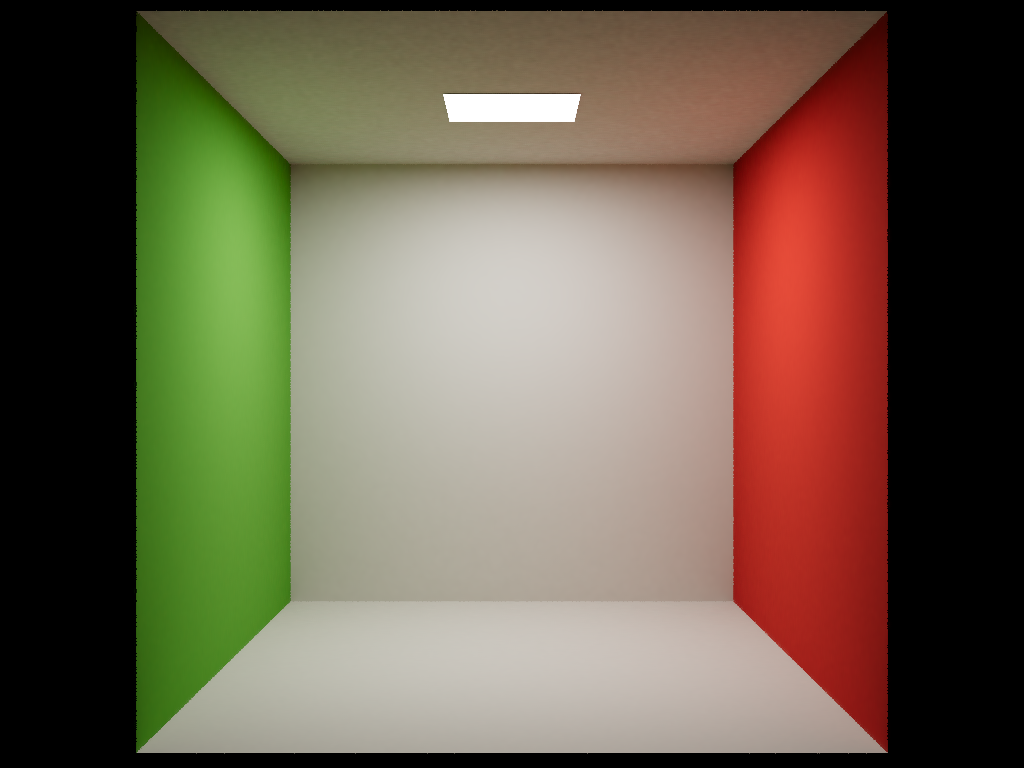
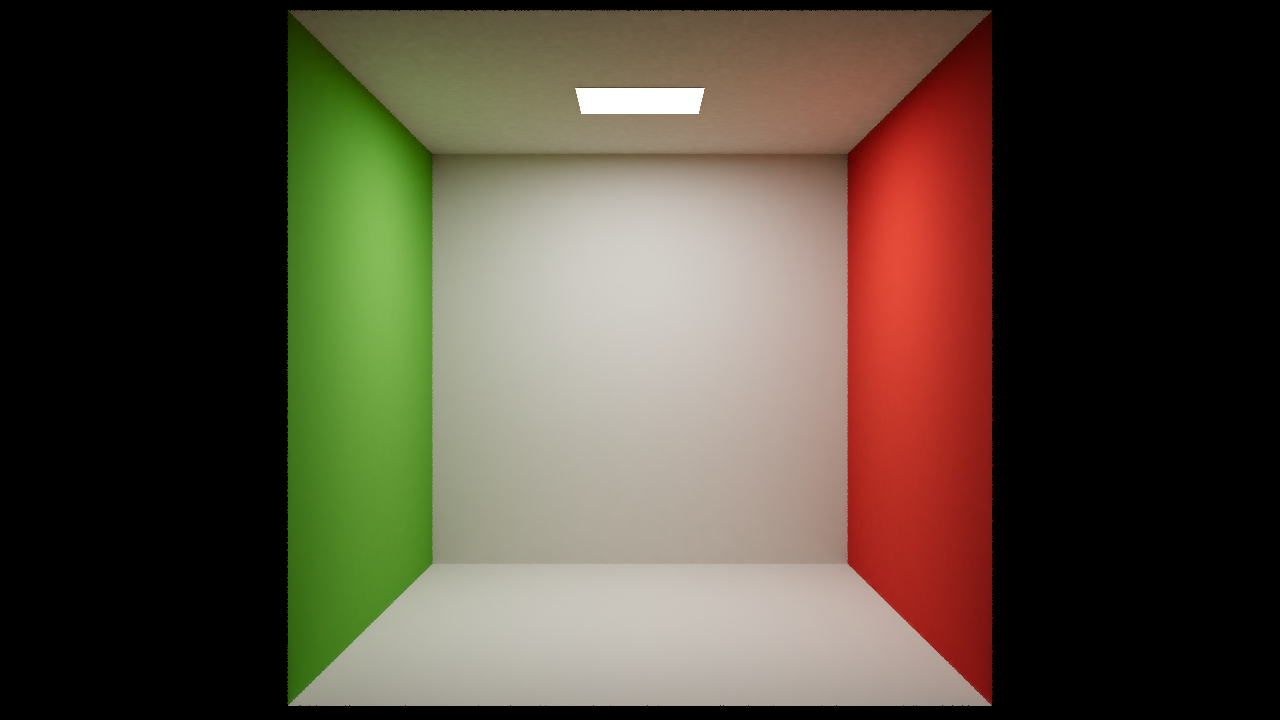
chore: release v0.7.0
64spp screenshot gallery (29 scenes, 1280x720). LICENSE copyright unified (Norbert Nopper). Docs: deleted-scene refs + look_at drift fixed. Pin Aether/Harmonia v0.7.0.

diff --git a/README.md b/README.md
@@ -11,29 +11,48 @@ It implements the [OpenPBR Surface v1.1.1](https://academysoftwarefoundation.git
 
 ## Screenshots
 
-| Cornell Box | Spheres | Suzanne |
-|:-----------:|:-------:|:-------:|
-| ![cornell_classic](screenshots/cornell_classic.png) | ![cornell_spheres](screenshots/cornell_spheres.png) | ![cornell_suzanne](screenshots/cornell_suzanne.png) |
+All 29 test scenes — Hyperion path tracer at **64 spp**, 1280×720 (fireflies from the low
+sample count are expected; 64 spp keeps the full-gallery render tractable).
 
-| Metals | Dielectrics | Coat |
-|:------:|:-----------:|:----:|
+| cornell_classic | cornell_classic_rec709 | cornell_empty |
+|:---:|:---:|:---:|
+| ![cornell_classic](screenshots/cornell_classic.png) | ![cornell_classic_rec709](screenshots/cornell_classic_rec709.png) | ![cornell_empty](screenshots/cornell_empty.png) |
+
+| cornell_spheres | cornell_suzanne | cornell_textured_cube |
+|:---:|:---:|:---:|
+| ![cornell_spheres](screenshots/cornell_spheres.png) | ![cornell_suzanne](screenshots/cornell_suzanne.png) | ![cornell_textured_cube](screenshots/cornell_textured_cube.png) |
+
+| openpbr_metals | openpbr_dielectrics | openpbr_coat |
+|:---:|:---:|:---:|
 | ![openpbr_metals](screenshots/openpbr_metals.png) | ![openpbr_dielectrics](screenshots/openpbr_dielectrics.png) | ![openpbr_coat](screenshots/openpbr_coat.png) |
 
-| Fuzz | Specular | Organics |
-|:----:|:--------:|:--------:|
+| openpbr_fuzz | openpbr_specular | openpbr_organics |
+|:---:|:---:|:---:|
 | ![openpbr_fuzz](screenshots/openpbr_fuzz.png) | ![openpbr_specular](screenshots/openpbr_specular.png) | ![openpbr_organics](screenshots/openpbr_organics.png) |
 
-| Thin-film | Textured Cube | Dragon & Teapot (IBL) |
-|:---------:|:-------------:|:---------------------:|
-| ![openpbr_thinfilm](screenshots/openpbr_thinfilm.png) | ![cornell_textured_cube](screenshots/cornell_textured_cube.png) | ![dragon_teapot](screenshots/dragon_teapot.png) |
+| openpbr_thinfilm | openpbr_advanced | shaderball_base |
+|:---:|:---:|:---:|
+| ![openpbr_thinfilm](screenshots/openpbr_thinfilm.png) | ![openpbr_advanced](screenshots/openpbr_advanced.png) | ![shaderball_base](screenshots/shaderball_base.png) |
 
-| Advanced Transmission | A Beautiful Game (IBL) | Bunny + ShaderBall (IBL) |
-|:----------------------:|:------------------------:|:------------------------:|
-| ![openpbr_advanced](screenshots/openpbr_advanced.png) | ![ABeautifulGame](screenshots/ABeautifulGame.png) | ![bunny_shaderball](screenshots/bunny_shaderball.png) |
+| shaderball_coat | shaderball_fuzz | shaderball_metal |
+|:---:|:---:|:---:|
+| ![shaderball_coat](screenshots/shaderball_coat.png) | ![shaderball_fuzz](screenshots/shaderball_fuzz.png) | ![shaderball_metal](screenshots/shaderball_metal.png) |
 
-| Blender Export |
-|:------------------------:|
-| ![camera_suzanne](screenshots/camera_suzanne.png) |
+| shaderball_opacity | shaderball_specular | shaderball_subsurface |
+|:---:|:---:|:---:|
+| ![shaderball_opacity](screenshots/shaderball_opacity.png) | ![shaderball_specular](screenshots/shaderball_specular.png) | ![shaderball_subsurface](screenshots/shaderball_subsurface.png) |
+
+| shaderball_thinfilm | shaderball_transmission | shaderball_emission |
+|:---:|:---:|:---:|
+| ![shaderball_thinfilm](screenshots/shaderball_thinfilm.png) | ![shaderball_transmission](screenshots/shaderball_transmission.png) | ![shaderball_emission](screenshots/shaderball_emission.png) |
+
+| shader_ball | bunny_shaderball | camera_suzanne |
+|:---:|:---:|:---:|
+| ![shader_ball](screenshots/shader_ball.png) | ![bunny_shaderball](screenshots/bunny_shaderball.png) | ![camera_suzanne](screenshots/camera_suzanne.png) |
+
+| ABeautifulGame | dragon_teapot |
+|:---:|:---:|
+| ![ABeautifulGame](screenshots/ABeautifulGame.png) | ![dragon_teapot](screenshots/dragon_teapot.png) |
 
 ---
 
@@ -144,7 +163,7 @@ reference = "presets/preview.render.toml"      # shared preset; inline keys over
 working_color_space = "lin_rec2020_scene"      # or "lin_rec709_scene"
 
 [camera]
-reference = "presets/cornell.camera.toml"      # translate / look_at / vfov / ev100
+reference = "presets/cornell.camera.toml"      # translate / rotate / vfov / ev100
 
 [tonemap]
 tonemapper = "agx"                             # aces | agx | reinhard | hable

diff --git a/AGENTS.md b/AGENTS.md
@@ -41,8 +41,8 @@ subclass injecting `harmonia::IRenderer`.
 
 ```powershell
 build/hyperion.exe --scene cornell_classic --output out.exr            # headless EXR+PNG
-build/hyperion.exe --scene fixture_ibl --spp 256 --output ref.exr      # clean IBL reference
-build/hyperion.exe meadow_scene                                        # interactive window
+build/hyperion.exe --scene dragon_teapot --spp 256 --output ref.exr    # clean IBL reference
+build/hyperion.exe shaderball_base                                     # interactive window
 ```
 
 CLI flags: all common Harmonia flags (`--scene/-s`, `--output/-o`, `--width`, `--height`,
@@ -61,9 +61,9 @@ CLI flags: all common Harmonia flags (`--scene/-s`, `--output/-o`, `--width`, `-
   Aether tree. Editing `C:\Development\GitHub\Aether\assets` does nothing unless you also
   update the `_deps` copy or build with `-DFETCHCONTENT_SOURCE_DIR_AETHER=...`. Symptom:
   two "different" renders give byte-identical metrics. See Aether/AGENTS.md.
-- **spp for parity:** scenes using `alignment_16spp_8bounce.render.toml` render at only
-  16 spp (noisy under IBL). Pass `--spp 256` when producing a parity reference, or the diff
-  measures Monte-Carlo noise, not a real discrepancy.
+- **spp for parity:** the meadow IBL scenes reference 64–128 spp presets (noisy under IBL).
+  Pass `--spp 256` when producing a parity reference, or the diff measures Monte-Carlo
+  noise, not a real discrepancy.
 - **Emissive winding:** emissive-triangle normals derive from OBJ winding
   (`cross(edge1,edge2)`); back-facing emitters are skipped in NEE. OBJs must be
   outward-facing (CCW-from-outside) or they render black.
